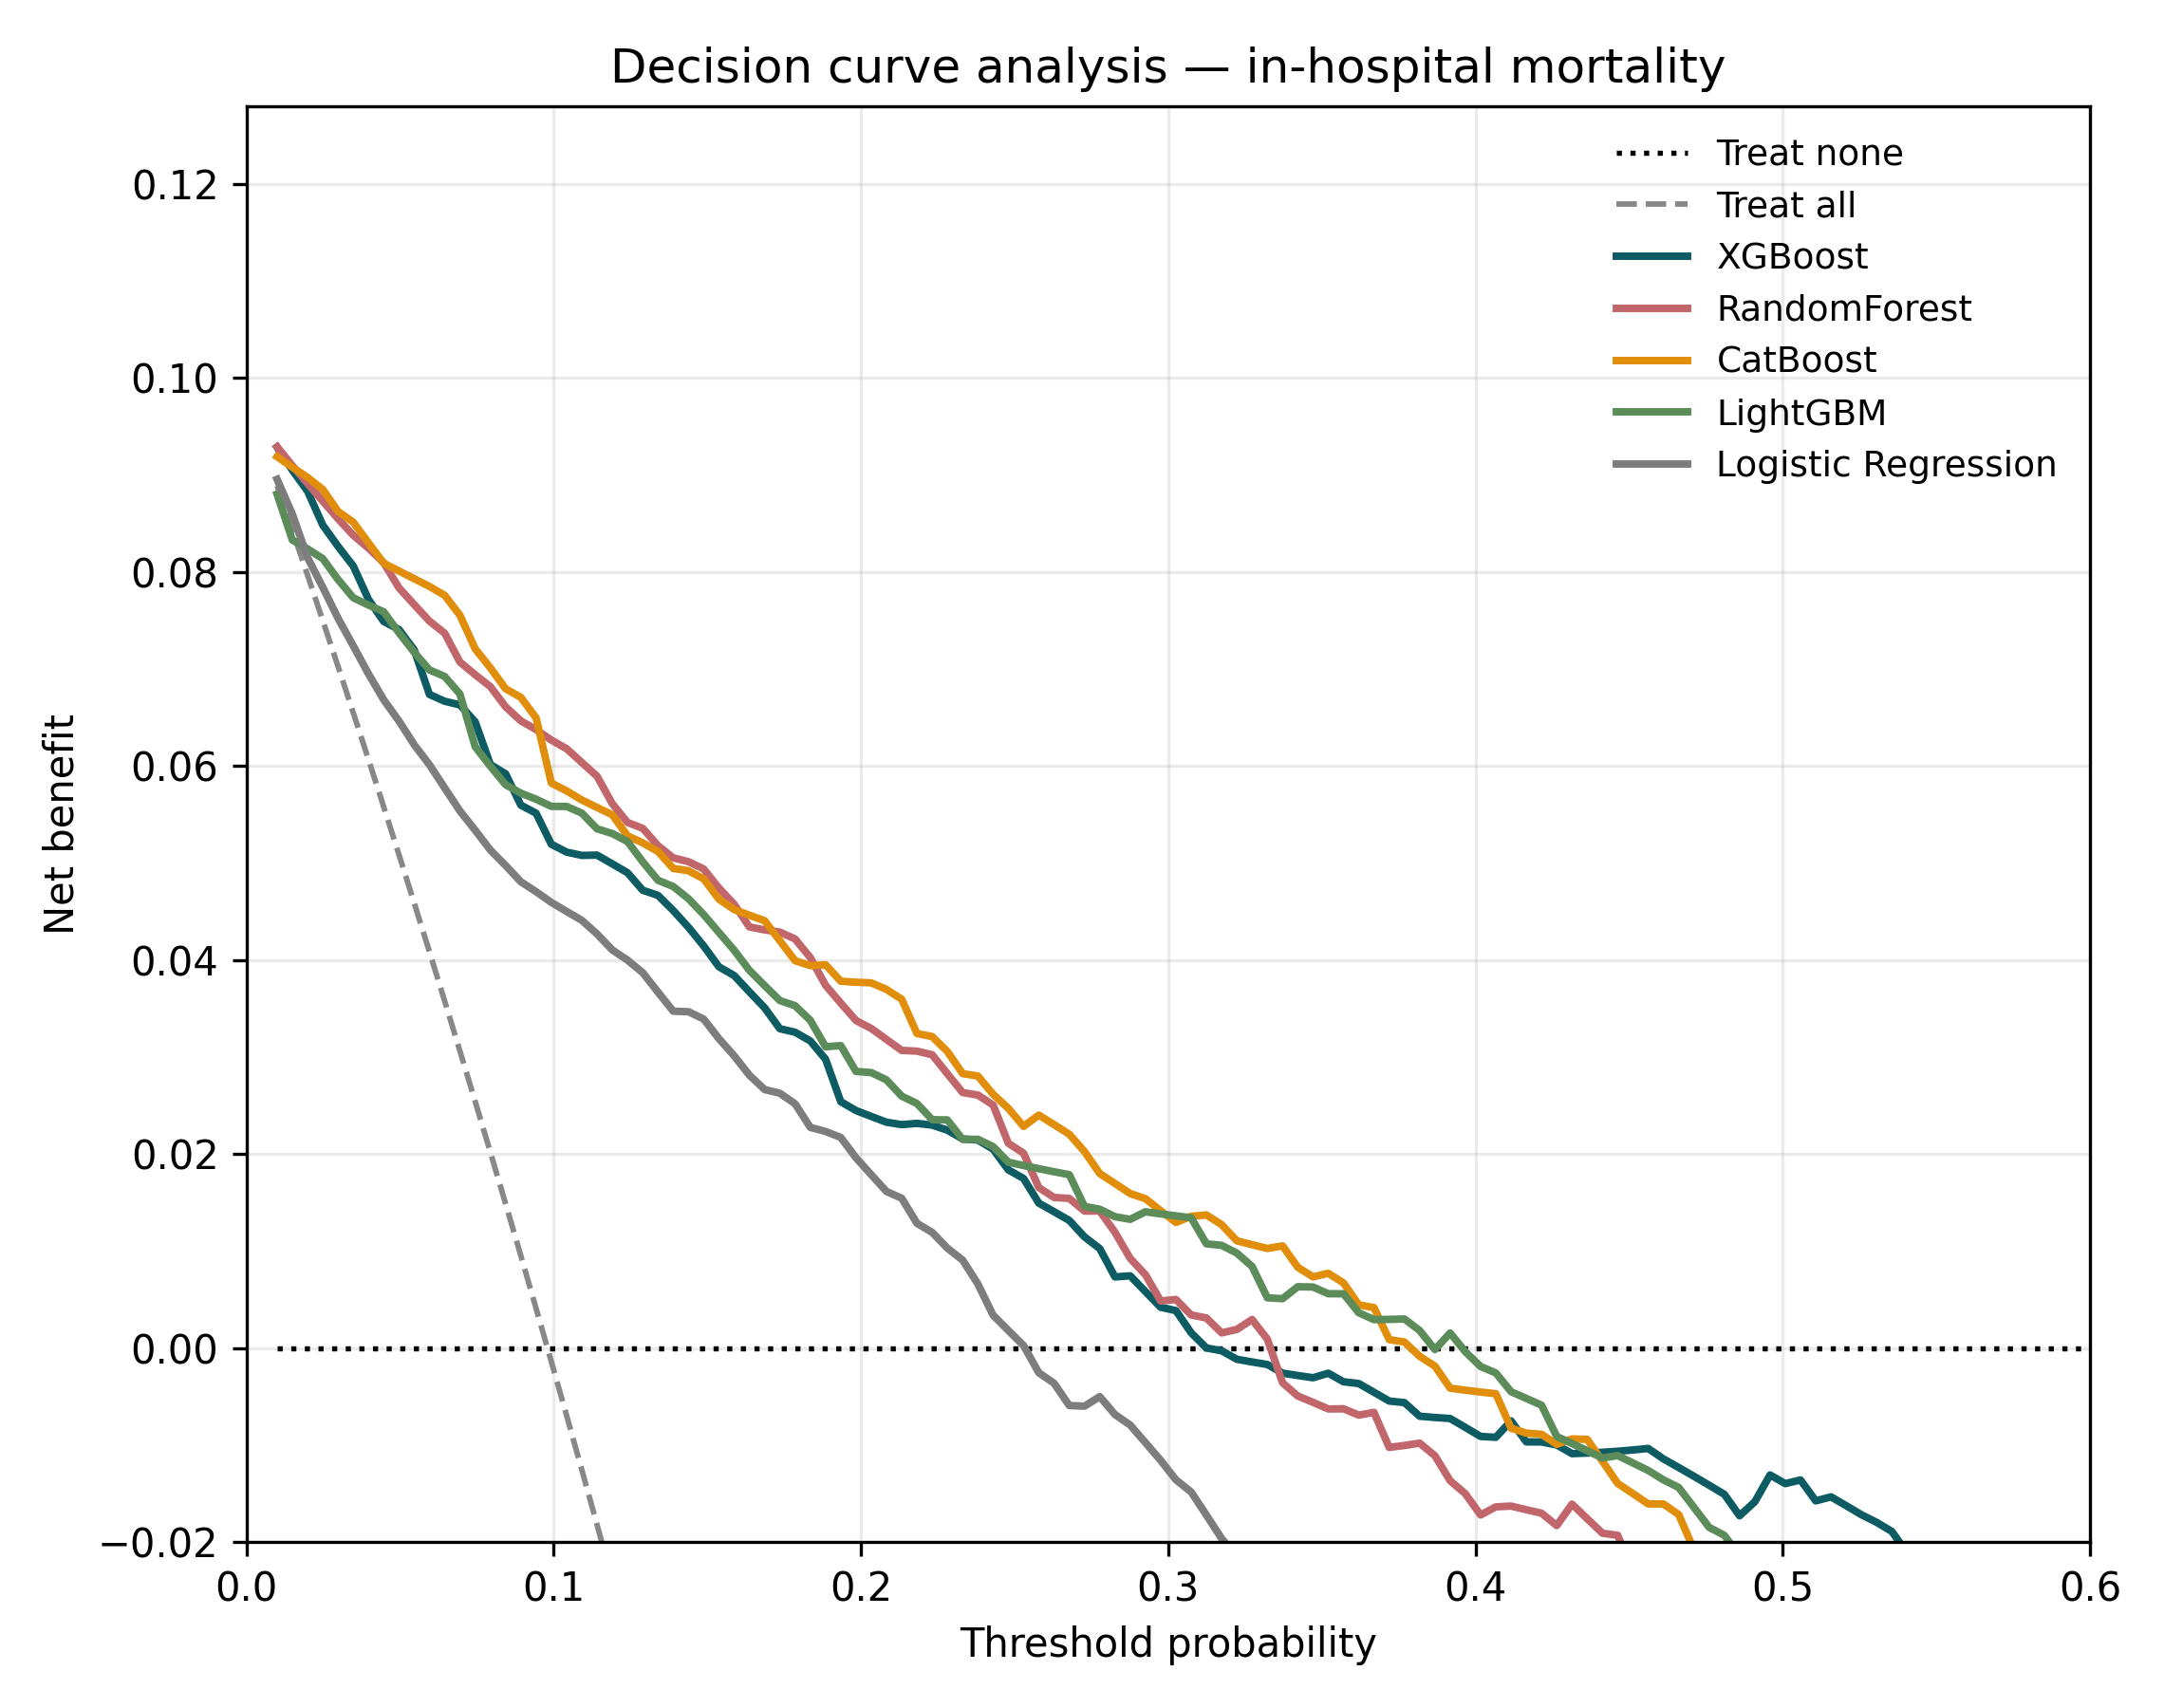
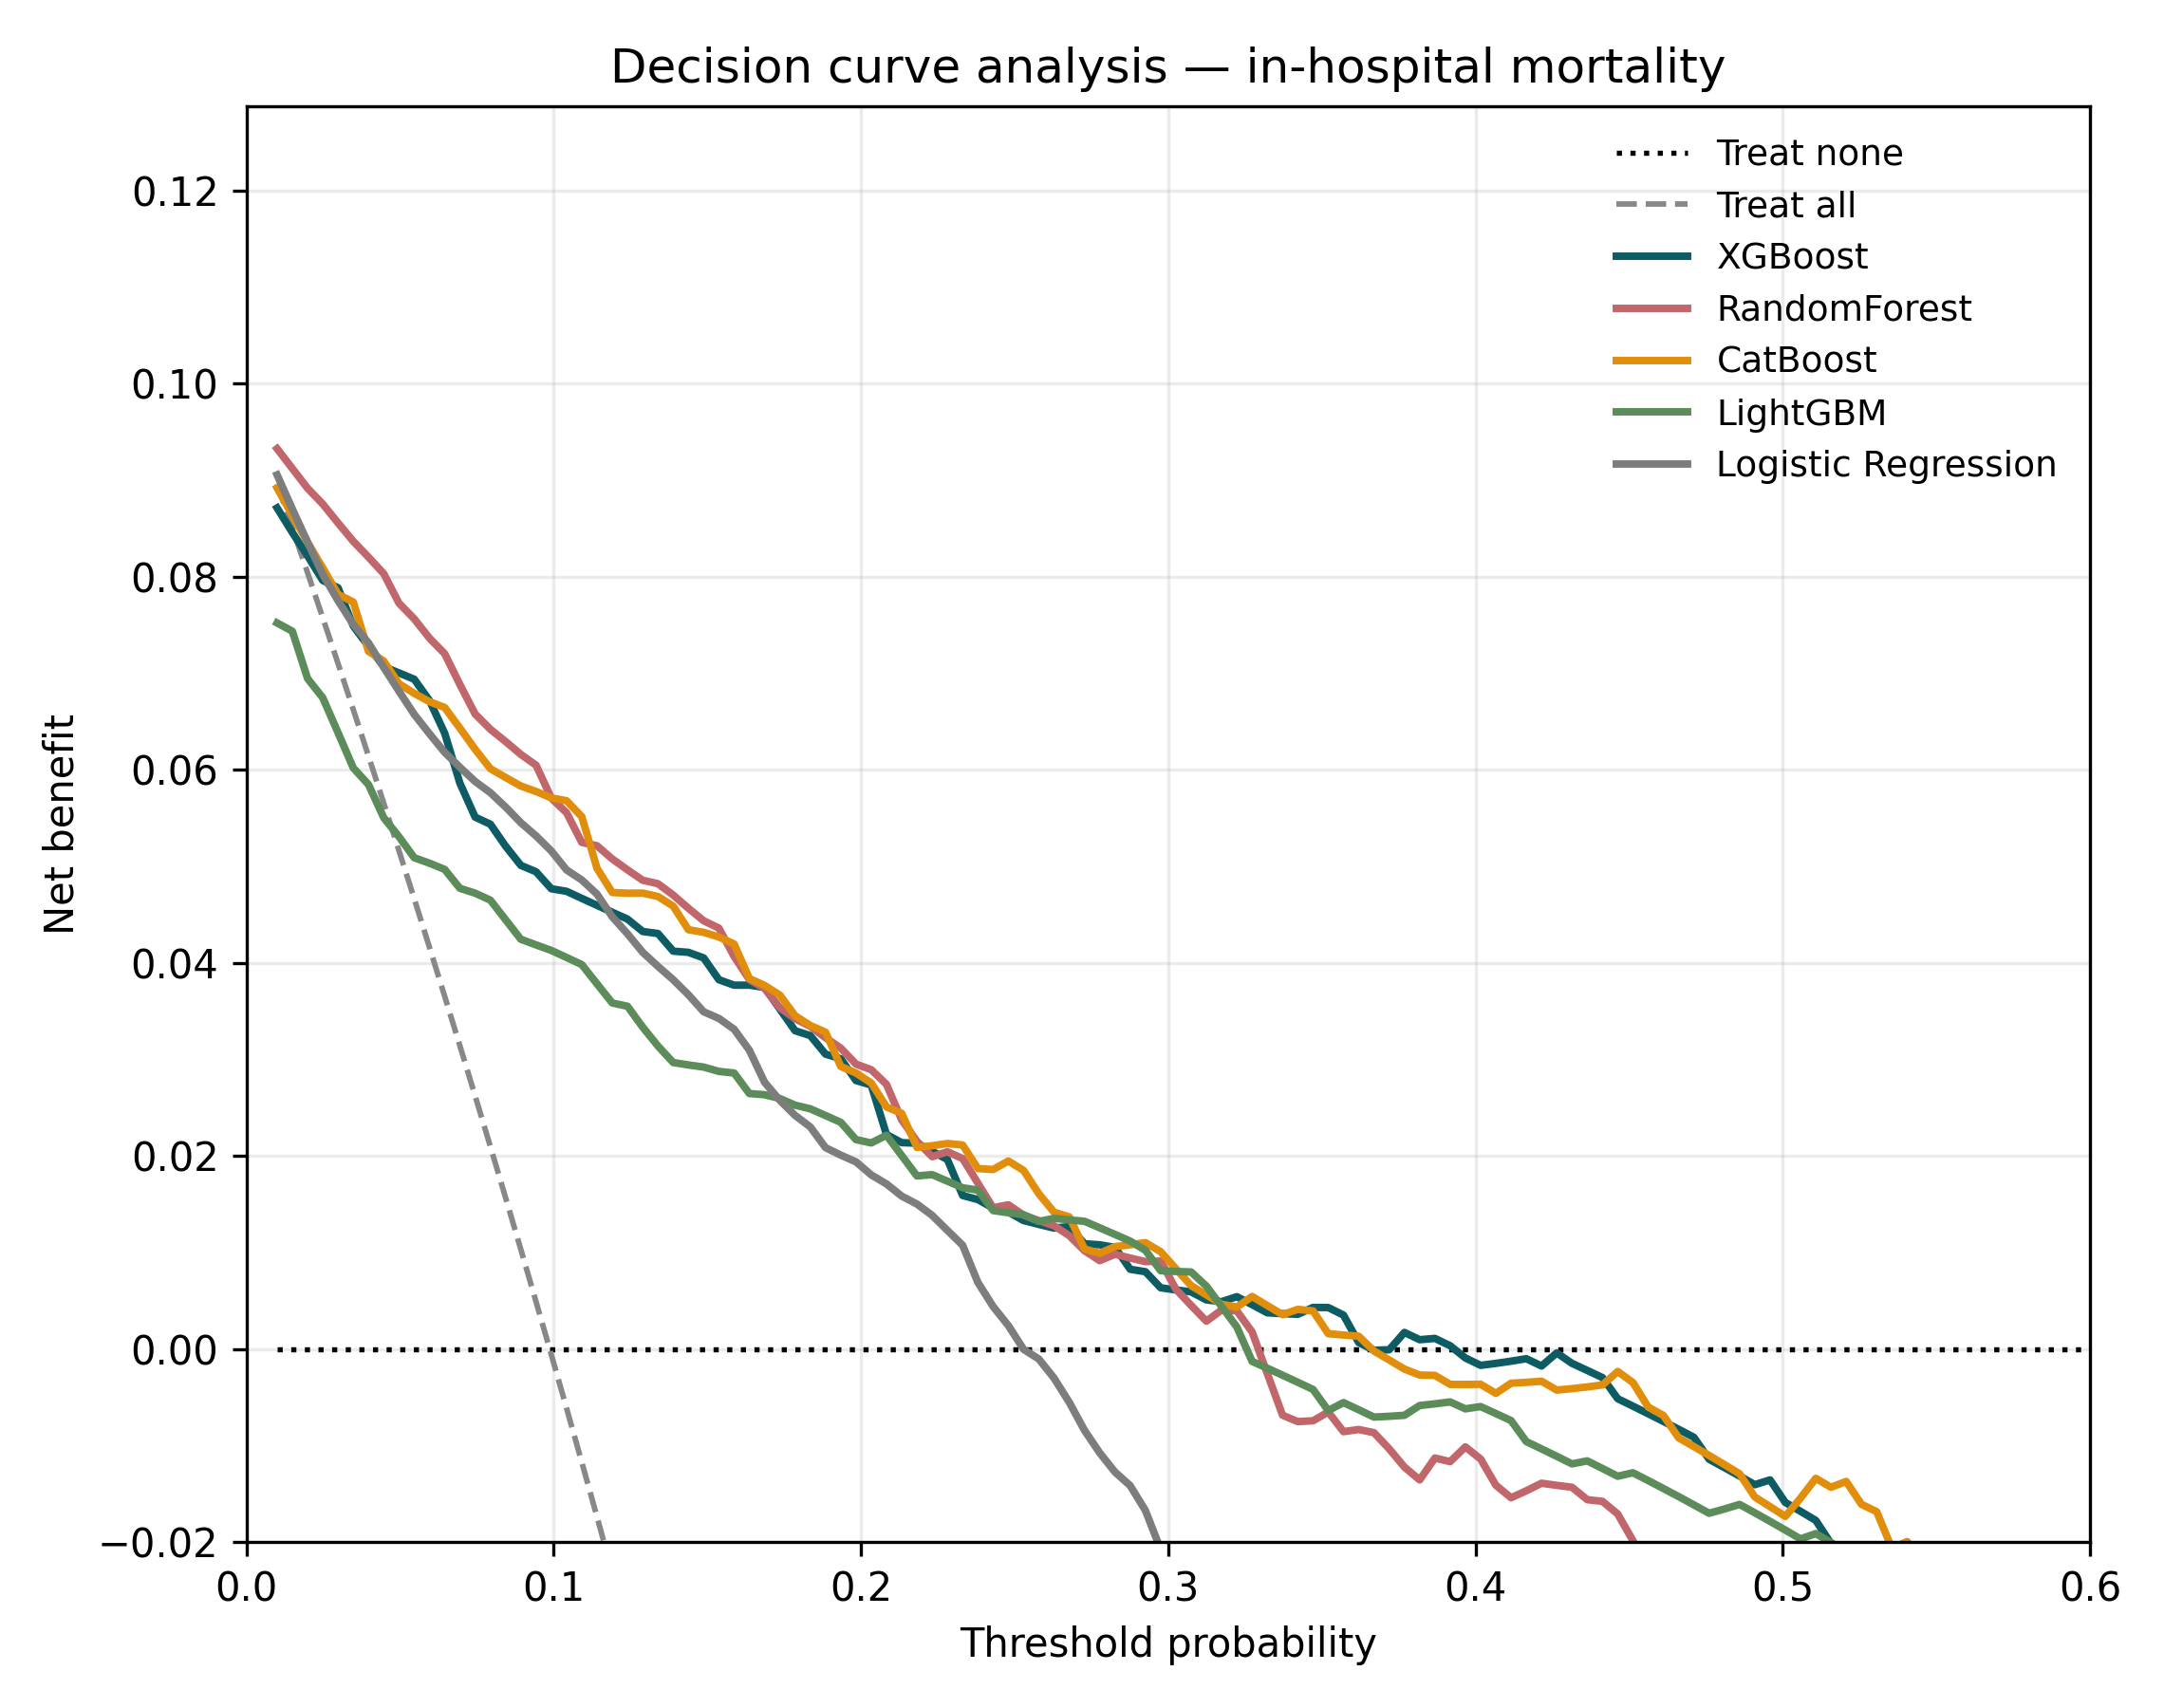
Consolidate Reviewer 5 outputs on analytic sample (n=3493): AUROC 95% CIs + isotonic recalibration
- Recompute calibration, decision curve analysis and multi-threshold Table S1 on the
  analytic sample (n=3493; excludes records with unknown race), matching the manuscript
- Report AUROC and Brier with 95% CIs (discrimination_calibration.csv)
- Add post-hoc isotonic recalibration (held-out calibration subset at real prevalence):
  before/after calibration figure; all models converge to Brier ~0.07-0.08 (brier_recalibrated.csv)
- Update reproducible script and notebook; add analytic-sample note to README; drop brier_scores.csv

diff --git a/reviewer5_additional_analyses.py b/reviewer5_additional_analyses.py
@@ -47,6 +47,11 @@ print(f"[out ] {OUT}")
 # ---------------------------------------------------------------- load (as in notebook)
 df = pd.read_csv(CSV_PATH, sep=";").drop("Sexo", axis=1)
 
+# analytic sample used in the manuscript: exclude records with unknown race
+# (R cleaning script line 235: filter(RacaCor != "*Nao informado")) -> n=3493, deaths=345
+df = df[df["RacaCor"] != "*Nao informado"].reset_index(drop=True)
+print(f"[filter] RacaCor != '*Nao informado' -> n={len(df)}")
+
 cols_num = ['DiasDePermanencia', 'NumeroInternacoes', 'ValorTotal', 'Idade']
 cols_cat = ['AnoInternacao', 'CaraterInternacao', 'Complexidade', 'DiagnosticoPrincipal',
             'Especialidade', 'FoiAObito', 'Gestao', 'HospitalNome',
@@ -130,44 +135,89 @@ def brier_ci(yt, p, n_boot=2000, seed=RNG):
     lo, hi = np.percentile(bs, [2.5, 97.5])
     return base, lo, hi
 
+def auc_ci(yt, p, n_boot=2000, seed=RNG):
+    yt = np.asarray(yt); p = np.asarray(p)
+    base = auc(*roc_curve(yt, p)[:2])
+    rng = np.random.default_rng(seed); idx = np.arange(len(yt)); bs = []
+    for _ in range(n_boot):
+        b = rng.choice(idx, len(idx), replace=True)
+        if len(np.unique(yt[b])) < 2:
+            continue
+        fpr, tpr, _ = roc_curve(yt[b], p[b]); bs.append(auc(fpr, tpr))
+    lo, hi = np.percentile(bs, [2.5, 97.5])
+    return base, lo, hi
+
 brier_rows = []
 for name in ORDER:
-    b, lo, hi = brier_ci(y_test.values, proba[name])
-    fpr, tpr, _ = roc_curve(y_test, proba[name]); a = auc(fpr, tpr)
-    brier_rows.append({'Model': lbl(name), 'AUC-ROC': round(a, 3),
-                       'Brier': round(b, 3), 'Brier 95% CI': f"{lo:.3f}-{hi:.3f}"})
+    b, blo, bhi = brier_ci(y_test.values, proba[name])
+    a, alo, ahi = auc_ci(y_test.values, proba[name])
+    brier_rows.append({'Model': lbl(name),
+                       'AUC-ROC': round(a, 3), 'AUC 95% CI': f"{alo:.3f}-{ahi:.3f}",
+                       'Brier': round(b, 3), 'Brier 95% CI': f"{blo:.3f}-{bhi:.3f}"})
 brier_df = pd.DataFrame(brier_rows)
-brier_df.to_csv(os.path.join(OUT, "brier_scores.csv"), index=False)
-print("\n[Brier]\n", brier_df.to_string(index=False))
+brier_df.to_csv(os.path.join(OUT, "discrimination_calibration.csv"), index=False)
+print("\n[AUROC + Brier with 95% CI]\n", brier_df.to_string(index=False))
 
-# ================================================================ (1) Calibration curves
-fig, ax = plt.subplots(figsize=(7.2, 6.4))
-ax.plot([0, 1], [0, 1], ls='--', lw=1.4, color='#333', label='Perfectly calibrated')
+# ================================================================ (1) Calibration curves (before vs after recalibration)
+from sklearn.calibration import CalibratedClassifierCV
+from sklearn.base import clone
+
+# Post-hoc isotonic recalibration done correctly: hold out a calibration set at the
+# real class prevalence (never SMOTE-resampled). For each model we refit a clone with
+# the SAME tuned hyperparameters on SMOTE(fit-part), then learn the isotonic map on the
+# untouched calibration part, and evaluate on the test set. Published models are unchanged.
+from sklearn.model_selection import train_test_split as _tts
+X_fit, X_cal, y_fit, y_cal = _tts(X_train, y_train, test_size=0.25,
+                                  random_state=RNG, stratify=y_train)
+X_fit_s, y_fit_s = SMOTE(random_state=RNG).fit_resample(X_fit, y_fit)
+proba_cal = {}
 for name in ORDER:
-    frac_pos, mean_pred = calibration_curve(y_test, proba[name], n_bins=10, strategy='quantile')
-    ax.plot(mean_pred, frac_pos, marker='o', ms=5, lw=1.9, color=COLORS[name],
-            label=f"{lbl(name)} (Brier={brier_score_loss(y_test, proba[name]):.3f})")
-ax.set_xlabel('Mean predicted probability'); ax.set_ylabel('Observed fraction of deaths')
-ax.set_title('Calibration curves (reliability diagram) — test set')
-ax.set_xlim(0, 1); ax.set_ylim(0, 1); ax.legend(loc='upper left', fontsize=9, frameon=False)
-ax.grid(alpha=.25)
+    base = clone(best_models[name]).fit(X_fit_s, y_fit_s)
+    cal = CalibratedClassifierCV(base, method='isotonic', cv='prefit').fit(X_cal, y_cal)
+    proba_cal[name] = cal.predict_proba(X_test)[:, 1]
+
+fig, axes = plt.subplots(1, 2, figsize=(12.4, 6.2), sharey=True)
+for ax, (probs, title) in zip(axes, [(proba, 'Before recalibration'),
+                                      (proba_cal, 'After isotonic recalibration')]):
+    ax.plot([0, 1], [0, 1], ls='--', lw=1.4, color='#333', label='Perfectly calibrated')
+    for name in ORDER:
+        frac_pos, mean_pred = calibration_curve(y_test, probs[name], n_bins=10, strategy='quantile')
+        ax.plot(mean_pred, frac_pos, marker='o', ms=5, lw=1.9, color=COLORS[name],
+                label=f"{lbl(name)} (Brier={brier_score_loss(y_test, probs[name]):.3f})")
+    ax.set_xlabel('Mean predicted probability'); ax.set_title(title)
+    ax.set_xlim(0, 1); ax.set_ylim(0, 1); ax.legend(loc='upper left', fontsize=8.5, frameon=False)
+    ax.grid(alpha=.25)
+axes[0].set_ylabel('Observed fraction of deaths')
+fig.suptitle('Calibration curves (reliability diagram) — test set', y=1.00, fontsize=13)
 fig.tight_layout()
 fig.savefig(os.path.join(OUT, "calibration_curves_300dpi.png"), dpi=300)
 fig.savefig(os.path.join(OUT, "calibration_curves.tiff"), dpi=300)
 plt.close(fig)
-print("[fig] calibration_curves_300dpi.png")
+
+# Brier scores after recalibration (for the digest / letter)
+cal_rows = []
+for name in ORDER:
+    b, lo, hi = brier_ci(y_test.values, proba_cal[name])
+    cal_rows.append({'Model': lbl(name), 'Brier (recalibrated)': round(b, 3),
+                     'Brier 95% CI': f"{lo:.3f}-{hi:.3f}"})
+pd.DataFrame(cal_rows).to_csv(os.path.join(OUT, "brier_recalibrated.csv"), index=False)
+print("[fig] calibration_curves_300dpi.png (before vs after isotonic recalibration)")
+print("[recalibrated Brier]\n", pd.DataFrame(cal_rows).to_string(index=False))
 
 # ================================================================ (3) Multi-threshold table (Table S1)
 THRESHOLDS = np.round(np.arange(0.10, 0.91, 0.10), 2)
+auc_cis = {name: auc_ci(y_test.values, proba[name]) for name in ORDER}
 rows = []
 for name in ORDER:
     p = proba[name]
+    a, alo, ahi = auc_cis[name]
     for t in THRESHOLDS:
         yp = (p >= t).astype(int)
         tn, fp, fn, tp = confusion_matrix(y_test, yp, labels=[0, 1]).ravel()
         spec = tn / (tn + fp) if (tn + fp) else np.nan
         rows.append({
             'Model': lbl(name), 'Threshold': t,
+            'AUC-ROC': round(a, 3), 'AUC 95% CI': f"{alo:.3f}-{ahi:.3f}",
             'Accuracy': round(accuracy_score(y_test, yp), 2),
             'Sensitivity': round(recall_score(y_test, yp, zero_division=0), 2),
             'Specificity': round(spec, 2),

diff --git a/README.md b/README.md
@@ -7,7 +7,7 @@
 <p align="center">
   <img alt="Task" src="https://img.shields.io/badge/Task-In--hospital_mortality-0d5c63">
   <img alt="Models" src="https://img.shields.io/badge/Models-5_ML_algorithms-c1666b">
-  <img alt="Best AUC" src="https://img.shields.io/badge/Best_AUC--ROC-0.88_(XGBoost)-e08e0b">
+  <img alt="Best AUC" src="https://img.shields.io/badge/Best_AUC--ROC-0.89_(XGBoost)-e08e0b">
   <img alt="Interpretability" src="https://img.shields.io/badge/Interpretability-SHAP-5b8c5a">
   <img alt="Journal" src="https://img.shields.io/badge/Under_review-BMC_Cancer-informational">
 </p>
@@ -32,13 +32,15 @@ Admission records  →  Encoding  →  Stratified split + SMOTE  →  5-fold tun
 
 | Model | AUC-ROC | Accuracy* | Sensitivity* | Specificity* | Brier (95% CI) |
 |:------|:-------:|:---------:|:------------:|:------------:|:--------------:|
-| **XGBoost** | **0.88** | 0.89 | 0.32 | 0.95 | **0.086** (0.072–0.102) |
-| Random Forest | 0.87 | 0.87 | 0.32 | 0.93 | 0.084 (0.072–0.096) |
-| CatBoost | 0.89 | 0.88 | 0.29 | 0.94 | 0.082 (0.069–0.096) |
-| LightGBM | 0.88 | 0.88 | 0.21 | 0.95 | 0.085 (0.071–0.101) |
-| Logistic Regression | 0.88 | 0.78 | 0.82 | 0.78 | 0.139 (0.122–0.156) |
+| **XGBoost** | **0.89 (0.86–0.91)** | 0.88 | 0.31 | 0.95 | **0.08** (0.07–0.10) |
+| Random Forest | 0.88 (0.85–0.90) | 0.88 | 0.32 | 0.94 | 0.08 (0.07–0.10) |
+| CatBoost | 0.88 (0.85–0.90) | 0.88 | 0.33 | 0.94 | 0.09 (0.08–0.11) |
+| LightGBM | 0.87 (0.84–0.90) | 0.87 | 0.22 | 0.94 | 0.09 (0.08–0.11) |
+| Logistic Regression | 0.88 (0.85–0.91) | 0.79 | 0.82 | 0.78 | 0.14 (0.12–0.15) |
 
-<sub>*Threshold-dependent metrics reported at the conventional 0.5 cut-off. Full metrics across thresholds 0.10–0.90 are in [`TableS1_multithreshold.csv`](TableS1_multithreshold.csv).</sub>
+<sub>*Threshold-dependent metrics reported at the conventional 0.5 cut-off. AUC-ROC and Brier are shown with 95% CIs ([`discrimination_calibration.csv`](discrimination_calibration.csv)); full metrics across thresholds 0.10–0.90 are in [`TableS1_multithreshold.csv`](TableS1_multithreshold.csv).</sub>
+
+<sub>**Analytic sample:** n = 3,493 hospitalizations (345 in-hospital deaths), obtained from the source records by excluding cases with unknown race. All results and the reproducible script use this sample.</sub>
 
 The tree-based models combined **strong discrimination** with **good calibration** (low Brier scores), while Logistic Regression traded specificity for sensitivity and was noticeably less well calibrated.
 
@@ -49,9 +51,9 @@ The tree-based models combined **strong discrimination** with **good calibration
 ### Discrimination — ROC curves
 <p align="center"><img src="all_roc_auc_models_300dpi.png" width="620" alt="ROC curves for all models"></p>
 
-### Calibration — reliability diagram
-The four tree-based models track the perfect-calibration diagonal closely across the probability range where most patients lie; Logistic Regression falls well below it, over-estimating risk.
-<p align="center"><img src="calibration_curves_300dpi.png" width="560" alt="Calibration curves"></p>
+### Calibration — reliability diagram (before vs after recalibration)
+Before recalibration, the tree-based models track the diagonal reasonably well while Logistic Regression over-estimates risk. After **post-hoc isotonic recalibration** (fitted on a held-out calibration subset at the real class prevalence), **all five models are well calibrated**, with Brier scores converging to ≈0.07–0.08 ([`brier_recalibrated.csv`](brier_recalibrated.csv)).
+<p align="center"><img src="calibration_curves_300dpi.png" width="820" alt="Calibration curves before and after isotonic recalibration"></p>
 
 ### Clinical utility — decision curve analysis
 Across the clinically relevant range of threshold probabilities (~0.02–0.40), **every ML model yields a higher net benefit than the "treat-all" and "treat-none" defaults**, supporting model-guided risk stratification and resource allocation.
@@ -74,7 +76,7 @@ Medical procedure type, hospitalization cost and service complexity were the mos
 | [`reviewer5_additional_analyses.py`](reviewer5_additional_analyses.py) | Stand-alone, reproducible script for the calibration curves, multi-threshold table and decision curve analysis |
 | `Banco_Internacao.csv` | De-identified hospitalization dataset (SIH/SUS) |
 | `calibration_curves_300dpi.png` · `decision_curve_analysis_300dpi.png` | New figures (Reviewer 5) |
-| `TableS1_multithreshold.csv` · `brier_scores.csv` · `dca_net_benefit_summary.csv` | New result tables |
+| `TableS1_multithreshold.csv` · `discrimination_calibration.csv` · `dca_net_benefit_summary.csv` · `brier_recalibrated.csv` | New result tables (AUROC & Brier with 95% CI; Brier after recalibration) |
 | `roc_auc_*_300dpi.png` · `heatmap_*_300dpi.png` · `bar-shap_*` · `bsw-shape_*` | Discrimination, correlation and SHAP figures |
 
 ---
@@ -86,10 +88,11 @@ Medical procedure type, hospitalization cost and service complexity were the mos
 pip install scikit-learn category_encoders imbalanced-learn xgboost lightgbm catboost matplotlib pandas numpy
 
 python reviewer5_additional_analyses.py Banco_Internacao.csv
-# → writes calibration_curves, decision_curve_analysis, TableS1_multithreshold, brier_scores to ./outputs
+# → writes calibration_curves, decision_curve_analysis, TableS1_multithreshold,
+#   discrimination_calibration (AUROC & Brier with 95% CI) to ./outputs
 ```
 
-The script mirrors the notebook exactly: identical feature encoding, stratified split (`random_state=42`), SMOTE on the training fold, and `GridSearchCV` over the same hyper-parameter grids.
+The script mirrors the notebook exactly: identical feature encoding, stratified split (`random_state=42`), SMOTE on the training fold, and `GridSearchCV` over the same hyper-parameter grids. It restricts to the analytic sample (n = 3,493) by excluding records with unknown race.
 
 ---
 